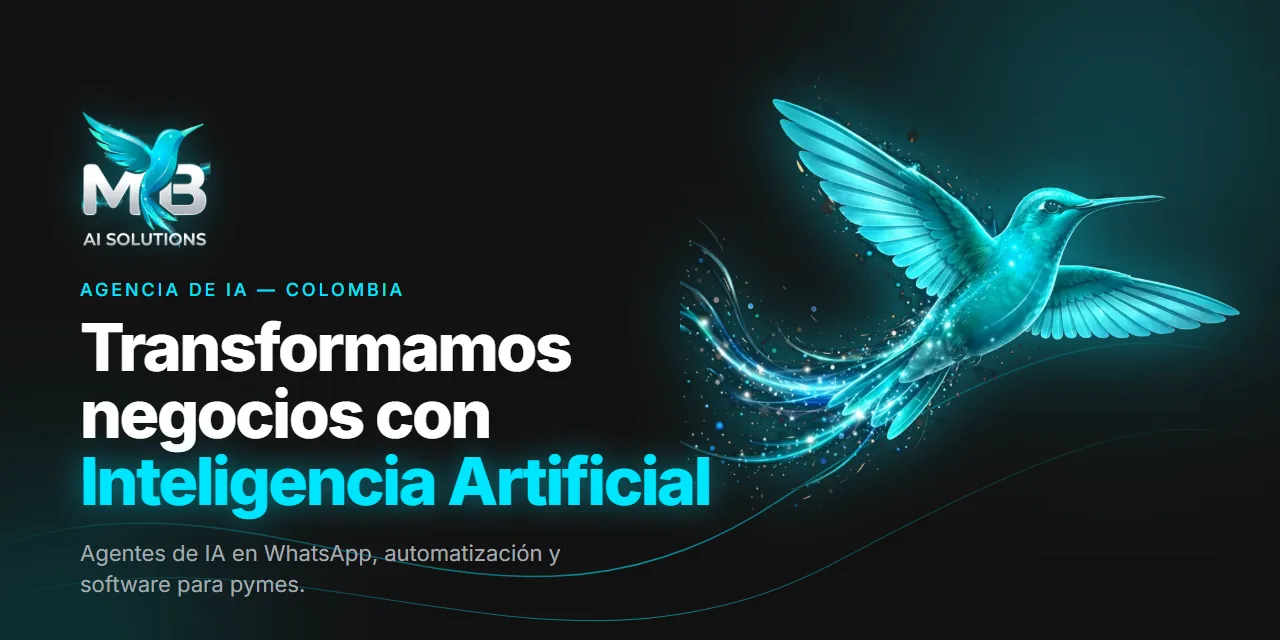
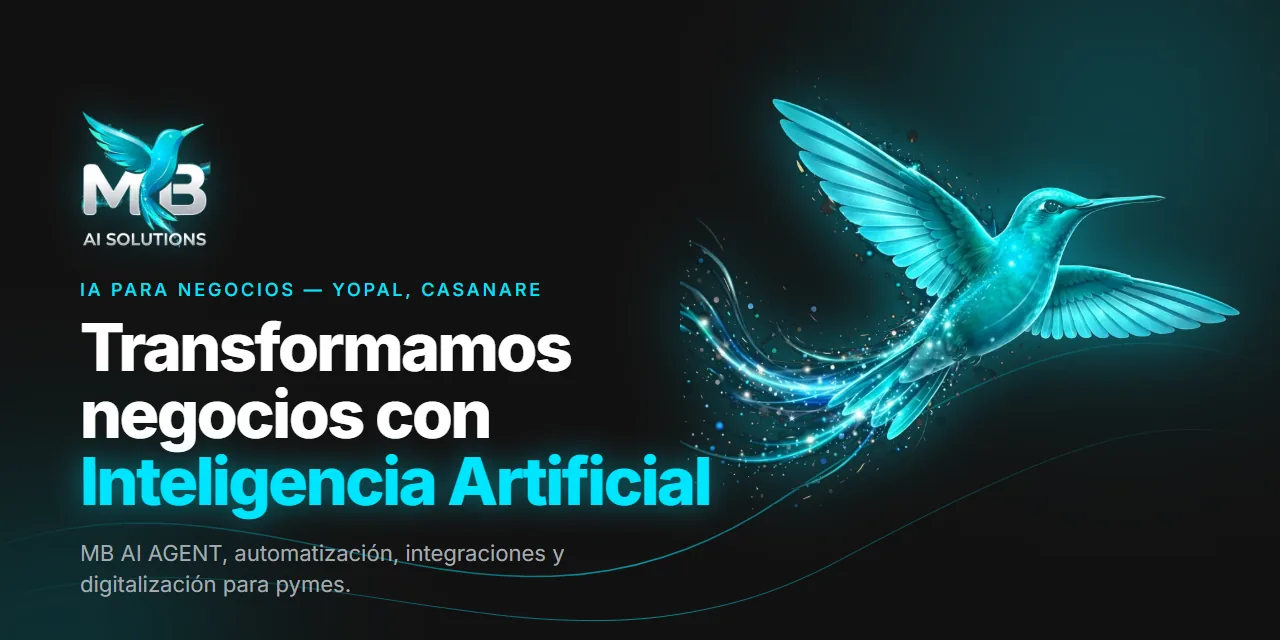
docs: update README, business proposal and screenshots to the new commercial model
README and PROPUESTA now reflect Yopal focus, MB AI AGENT as main
product, complementary services with 'desde' prices, packages, MB AI
CARE, 6-step process, 1-4 week timelines, third-party costs, the real
AI console (Gemini via Cloudflare Worker) and the Morpho guide. New
banner, social preview and screenshots.

Changed region(s): [[0.0625, 0.8438, 0.4375, 0.9375], [0.0625, 0.4375, 0.4375, 0.4688]]

diff --git a/.github/banner-src.html b/.github/banner-src.html
@@ -32,9 +32,9 @@
   <img class="bird" src="../assets/img/colibri-900.webp" alt="">
   <div class="content">
     <img class="logo" src="../assets/img/logo-full-320.webp" alt="">
-    <div class="eyebrow">Agencia de IA — Colombia</div>
+    <div class="eyebrow">IA para negocios — Yopal, Casanare</div>
     <h1>Transformamos negocios con <span>Inteligencia Artificial</span></h1>
-    <p>Agentes de IA en WhatsApp, automatización y software para pymes.</p>
+    <p>MB AI AGENT, automatización, integraciones y digitalización para pymes.</p>
   </div>
 </body>
 </html>

diff --git a/PROPUESTA.md b/PROPUESTA.md
@@ -4,9 +4,9 @@
 
 # Propuesta de negocio — MB AI SOLUTIONS
 
-**Convertimos negocios tradicionales en negocios inteligentes.**
+**Transformamos negocios con Inteligencia Artificial.**
 
-[← Volver al README](README.md) · [Ver la web](https://mairon2812.github.io/mb-ai-solutions/) · [Hablar por WhatsApp](https://wa.me/573025289834?text=Hola%20MB%20AI%20SOLUTIONS%2C%20vi%20la%20propuesta%20de%20negocio%20y%20quiero%20conversar)
+[← Volver al README](README.md) · [Ver la web](https://mairon2812.github.io/mb-ai-solutions/) · [Probar la IA](https://mairon2812.github.io/mb-ai-solutions/#consola-ia) · [Hablar por WhatsApp](https://wa.me/573025289834?text=Hola%20MB%20AI%20SOLUTIONS%2C%20vi%20la%20propuesta%20de%20negocio%20y%20quiero%20conversar)
 
 </div>
 
@@ -14,89 +14,122 @@
 
 ## 1. Resumen
 
-**MB AI SOLUTIONS** es una empresa de tecnología e Inteligencia Artificial que transforma negocios tradicionales mediante **agentes inteligentes en WhatsApp, automatización de procesos, integración de sistemas y software a medida**.
+**MB AI SOLUTIONS** es una empresa de tecnología de **Yopal, Casanare, Colombia**, que ayuda a negocios a automatizar y digitalizar su operación mediante **Inteligencia Artificial, automatización, integraciones, digitalización y desarrollo personalizado**.
 
-No vendemos "inteligencia artificial" en abstracto. Vendemos **resultados empresariales mediante IA**: más ventas, menos costos operativos, atención al cliente 24/7 y procesos que funcionan solos.
+No somos una agencia genérica de páginas web. Nuestro producto principal es **MB AI AGENT**: agentes inteligentes personalizados para empresas. Alrededor de él ofrecemos las capacidades que cada negocio necesita para funcionar de forma digital.
 
 ## 2. El problema
 
-El dueño típico de una pyme o negocio local en Colombia:
+Las pequeñas y medianas empresas de la región pierden tiempo y clientes en tareas que podrían automatizarse:
 
-- **Pierde clientes por no responder a tiempo en WhatsApp**, sobre todo fuera de horario.
-- **Hace todo a mano**: agenda, recordatorios, cobros, seguimiento y reportes.
-- **Sabe que la tecnología le ayudaría, pero no sabe por dónde empezar**, y las soluciones que encuentra están pensadas para empresas grandes: caras, lentas y llenas de jerga técnica.
+- Responder las mismas preguntas todos los días.
+- Revisar inventarios y registrar clientes manualmente.
+- Copiar información entre herramientas.
+- Gestionar pedidos a mano.
+- Responder mensajes fuera del horario.
+- Preparar reportes manualmente y buscar información constantemente.
+
+Saben que la tecnología les ayudaría, pero las soluciones que encuentran son caras, lentas o están llenas de jerga técnica.
 
 ## 3. La solución
 
-Llegamos, **diagnosticamos**, **implementamos en semanas** y **medimos el retorno**.
+**Convertimos procesos repetitivos en flujos digitales e inteligentes**, siempre en este orden: **problema → solución → beneficio → siguiente paso**.
+
+### Producto principal — MB AI AGENT
+
+Un agente inteligente personalizado que puede atender consultas, responder preguntas frecuentes, consultar información, capturar clientes, apoyar procesos comerciales y automatizar tareas repetitivas. Aplicaciones posibles: atención al cliente, información de productos, precios y disponibilidad, catálogos, solicitudes y pedidos, clasificación de conversaciones, seguimiento, transferencia a asesores humanos y atención fuera del horario comercial.
+
+> Las funcionalidades se definen según las necesidades y el alcance de cada negocio.
+
+### Servicios complementarios
 
 | Servicio | Resultado para el negocio |
 |---|---|
-| **Agentes inteligentes en WhatsApp** | Atiende 24/7: responde preguntas, agenda citas, toma pedidos y hace seguimiento. El negocio vende mientras el dueño duerme. |
-| **Automatización de procesos** | Recordatorios, facturación, seguimiento a clientes y reportes sin trabajo manual. Menos errores. |
-| **Integración de sistemas** | WhatsApp, CRM, hojas de cálculo, pasarelas de pago y APIs funcionando como un solo sistema. |
-| **Asistentes internos con IA** | El equipo consulta inventario, precios y disponibilidad en segundos. |
-| **Software a medida y SaaS** | Del MVP funcional al producto escalable. |
-| **Diagnóstico IA gratuito** | Auditoría para detectar exactamente dónde la IA genera retorno. Sin compromiso. |
+| **Automatización de procesos** | Menos tareas repetitivas conectando formularios, hojas de cálculo, WhatsApp, correo, notificaciones, pedidos y reportes. |
+| **Digitalización de negocios** | Inventario, clientes, pedidos, ventas y catálogos organizados en sistemas fáciles de administrar. |
+| **Integraciones y conexiones** | Herramientas y plataformas conectadas para que la información fluya sola. |
+| **Desarrollo de soluciones digitales** | Páginas web, catálogos, dashboards, sistemas y aplicaciones cuando el negocio necesita una solución propia. |
+| **Consultoría e implementación de IA** | Diagnóstico, estrategia, selección de herramientas, implementación, capacitación y documentación. |
+| **Soporte y optimización (MB AI CARE)** | Mantenimiento y mejora continua de agentes y automatizaciones. |
 
-> **Principio de la casa:** problema real → cliente real → MVP funcional → resultados medibles.
+## 4. Mercado y cliente ideal
 
-## 4. Cliente ideal
+- **Mercado inicial:** Yopal, Casanare.
+- **Clientes:** pequeñas y medianas empresas, comercios, restaurantes, boutiques, tiendas, ferreterías, barberías y salones, inmobiliarias, negocios de servicios y empresas locales que quieren digitalizarse.
+- **Señal de que nos necesita:** muchos mensajes por WhatsApp, respuestas lentas o manuales, información dispersa y tareas que se repiten todos los días.
 
-- **Quién:** dueños de pymes y negocios locales en Colombia. No son técnicos: les hablamos de ventas, tiempo y costos.
-- **Nichos:** restaurantes, hoteles, clínicas, talleres, inmobiliarias, gimnasios, veterinarias, comercios, empresas de servicios y negocios locales.
-- **Señal de que nos necesita:** recibe muchos mensajes por WhatsApp, responde tarde o a mano, y repite las mismas tareas todos los días.
+## 5. Modelo de ingresos
 
-## 5. Cómo trabajamos
+Precios de referencia para el mercado inicial de Yopal. Siempre se comunican como **"desde"**: el precio final depende del alcance, la complejidad, las herramientas y las integraciones requeridas.
 
-1. **Te escuchamos** — el dueño nos cuenta cómo funciona su negocio: qué le quita tiempo y por dónde se le escapan los clientes.
-2. **Te mostramos el plan** — explicamos en palabras simples qué vamos a automatizar, en cuánto tiempo y cuánto cuesta. Sin letra pequeña.
-3. **Lo construimos para ti** — creamos el agente de IA, lo conectamos a WhatsApp y a sus herramientas, y lo probamos con el cliente hasta que funcione de verdad.
-4. **Despegas y seguimos ahí** — el negocio empieza a atender solo, día y noche. Si quiere cambiar o mejorar algo, lo ajustamos.
+| Línea | Desde |
+|---|---|
+| **MB AI AGENT** | $900.000 COP (orientativo $900.000 – $2.500.000; avanzado $2.500.000 – $5.000.000+) |
+| Automatización de procesos | $500.000 COP |
+| Digitalización de negocios | $500.000 COP |
+| Integraciones | $400.000 COP |
+| Desarrollo — landing / web empresarial / e-commerce / dashboard / aplicación | $500.000 / $1.000.000 / $1.500.000 / $2.000.000 / $3.000.000 COP |
+| Consultoría — diagnóstico | $150.000 COP (diagnóstico inicial gratuito como mecanismo comercial limitado) |
 
-## 6. Modelo de negocio
+**Paquetes:** START desde $900.000 · BUSINESS desde $1.800.000 · CUSTOM desde $3.000.000 COP.
 
-- **Puerta de entrada:** el **diagnóstico IA gratuito**. Reduce la barrera para el dueño de negocio y nos permite proponer solo lo que genera retorno.
-- **Ingresos por implementación:** cada proyecto (agente de WhatsApp, automatización, integración o software) se cotiza tras el diagnóstico, con **precios pensados para pymes**.
-- **Acompañamiento post-implementación:** la IA se mide y se mejora con el tiempo; la relación con el cliente continúa después del lanzamiento.
-- **Canal de adquisición:** la web y WhatsApp, con **una sola conversión**: que el dueño de negocio inicie una conversación.
+**Ingreso recurrente — MB AI CARE:** BASIC desde $200.000 · BUSINESS desde $350.000 · PRO desde $600.000 COP/mes.
 
-## 7. Por qué nosotros
+**Costos de terceros:** proveedores de IA, WhatsApp/Meta, hosting, dominios, automatizadores y servicios en la nube pueden generar costos adicionales según el proveedor y el nivel de uso, y se cobran por separado.
+
+## 6. Cómo trabajamos
+
+1. **Diagnóstico** — entendemos cómo funciona actualmente el negocio.
+2. **Diseño** — identificamos qué procesos podemos digitalizar o automatizar.
+3. **Implementación** — construimos y configuramos la solución.
+4. **Pruebas** — validamos los flujos antes de ponerlos en funcionamiento.
+5. **Capacitación** — enseñamos al equipo cómo utilizar el sistema.
+6. **Soporte** — acompañamos la evolución de la solución.
+
+**Plazos:** implementaciones normalmente de **1 a 4 semanas**, según el alcance, la complejidad y las integraciones. El plazo definitivo se establece después del diagnóstico.
+
+## 7. Canal de adquisición
+
+La web funciona como **sitio web + catálogo de servicios + herramienta comercial + captador de leads**:
+
+- Cada llamado a la acción abre WhatsApp con un mensaje distinto según el origen (paquete, servicio o sección), para saber qué le interesa al cliente desde el primer mensaje.
+- La **consola IA** de la web (Google Gemini) responde dudas y arma un **plan de 3 ideas** para el negocio del visitante, con botón directo a WhatsApp.
+- CTA principal: **Solicitar diagnóstico**. Secundario: **Quiero automatizar mi negocio**.
+
+## 8. Por qué nosotros
 
 | Diferenciador | Qué significa para el cliente |
 |---|---|
 | **Trato directo con el fundador** | Sin intermediarios ni burocracia de agencia grande. |
-| **Implementación en semanas, no en meses** | MVP funcional primero; resultados pronto. |
+| **Implementación ágil** | Normalmente de 1 a 4 semanas; primero una versión que funcione. |
 | **Hablamos tu idioma** | Resultados de negocio, no jerga técnica. |
-| **Precios pensados para pymes** | No para corporativos. |
-| **Acompañamiento post-implementación** | La solución se mide y se mejora. |
+| **Precios pensados para pymes** | Referencias claras desde el inicio, adaptadas al mercado local. |
+| **Acompañamiento** | MB AI CARE para mantener y mejorar la solución. |
 
-## 8. Etapa actual y hacia dónde vamos
+## 9. Etapa actual y hacia dónde vamos
 
-**Hoy (2026): validación.** Un equipo pequeño, experto y rápido, con operación directa del fundador. Los casos de éxito y los resultados medibles se construyen con los primeros proyectos — por eso no publicamos cifras ni testimonios que todavía no existen.
+**Hoy (2026): validación en Yopal.** Un equipo pequeño, experto y rápido, con operación directa del fundador. Los casos de éxito y los resultados medibles se construyen con los primeros proyectos; por eso no publicamos cifras ni testimonios que todavía no existen.
 
 **Hacia dónde vamos:**
 
-1. **Primeros clientes y casos reales** con resultados medidos en los nichos objetivo.
-2. **Soluciones repetibles por nicho**: convertir lo que funciona en productos listos para restaurantes, clínicas, talleres, etc.
-3. **Software SaaS propio** a partir de esas soluciones.
-4. **Expansión internacional**, más allá de Colombia.
+1. **Primeros clientes** en los sectores objetivo, con resultados medidos.
+2. **Soluciones repetibles por sector** a partir de lo que funcione.
+3. **Ingreso recurrente** con MB AI CARE.
+4. **Expansión** más allá de Casanare.
 
-El nombre lo resume: **MB** es *Mairon Baron* —el origen— y *Modern Business* —la marca que crece más allá de la persona.
+Las capacidades que aún no existen como producto se ofrecen como **soluciones personalizadas, disponibles según el alcance del proyecto**.
 
-## 9. Fundador
+## 10. Fundador
 
-**Mairon Baron** — Ingeniero de Sistemas (Unisangil, Colombia). Especialista en IA aplicada, automatización y SaaS para negocios reales.
+**Mairon Baron** — Ingeniero de Sistemas (Unisangil, Colombia). IA aplicada, automatización y desarrollo de soluciones digitales para negocios reales.
 
-**Stack:** Flutter/Dart · Laravel/PHP · PostgreSQL · Firebase · Python · n8n · Power Automate · APIs REST.
+## 11. ¿Hablamos?
 
-## 10. ¿Hablamos?
-
-¿Tienes un negocio y quieres tu diagnóstico gratuito? ¿Quieres ser **cliente piloto**, **aliado** o conversar sobre la idea?
+¿Tienes un negocio en Yopal y quieres saber qué se puede automatizar? ¿Quieres ser **cliente piloto** o **aliado**?
 
 <div align="center">
 
-[![Escríbenos por WhatsApp](https://img.shields.io/badge/Escr%C3%ADbenos_por_WhatsApp-00E5FF?style=for-the-badge&logo=whatsapp&logoColor=121212)](https://wa.me/573025289834?text=Hola%20MB%20AI%20SOLUTIONS%2C%20vi%20la%20propuesta%20de%20negocio%20y%20quiero%20conversar)
+[![Solicitar diagnóstico](https://img.shields.io/badge/Solicitar_diagn%C3%B3stico-00E5FF?style=for-the-badge&logo=whatsapp&logoColor=121212)](https://wa.me/573025289834?text=Hola%20MB%20AI%20SOLUTIONS%2C%20vi%20la%20propuesta%20de%20negocio%20y%20quiero%20conversar)
 
 <sub>© 2026 MB AI SOLUTIONS — Transformamos negocios con Inteligencia Artificial.</sub>
 
